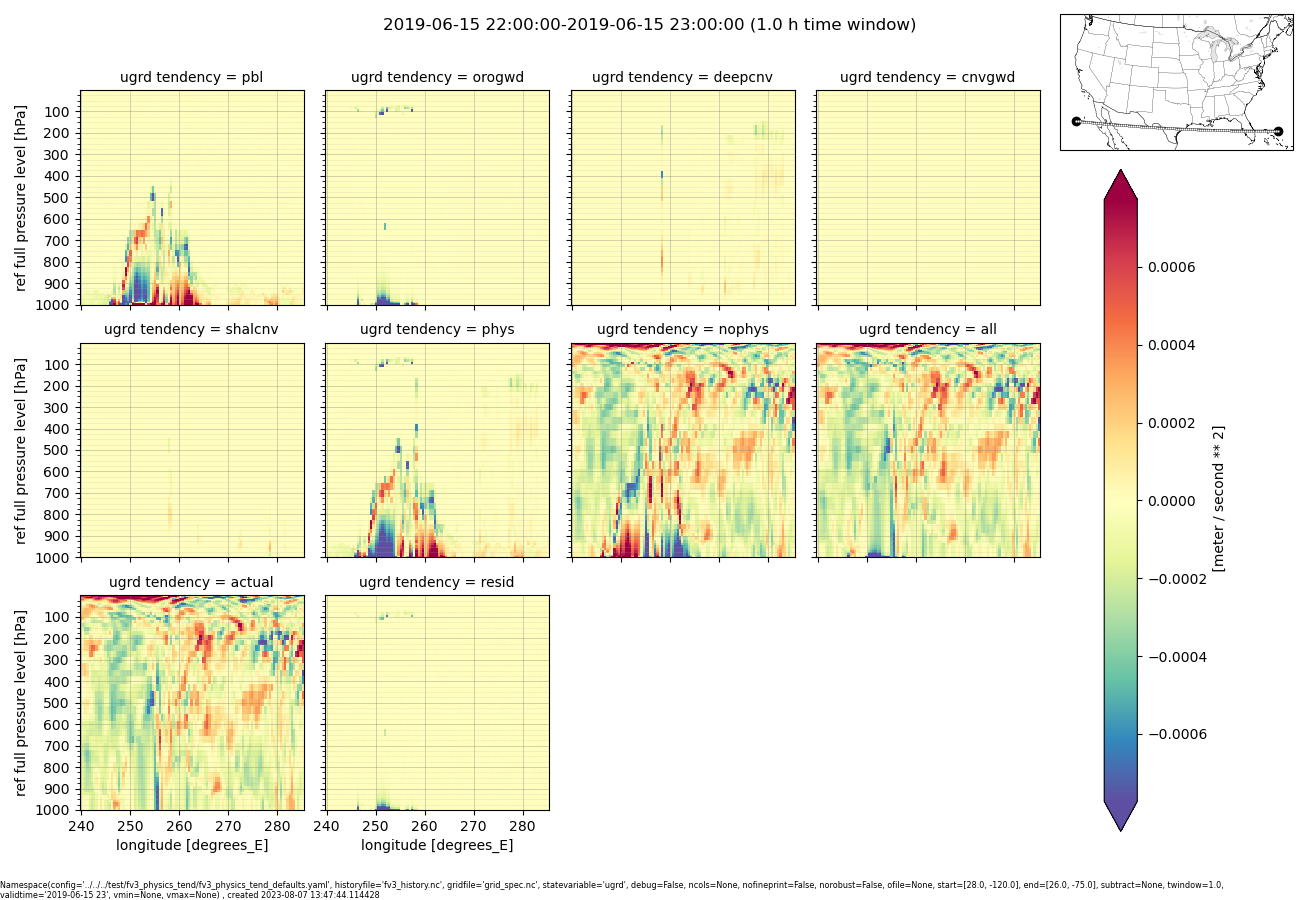
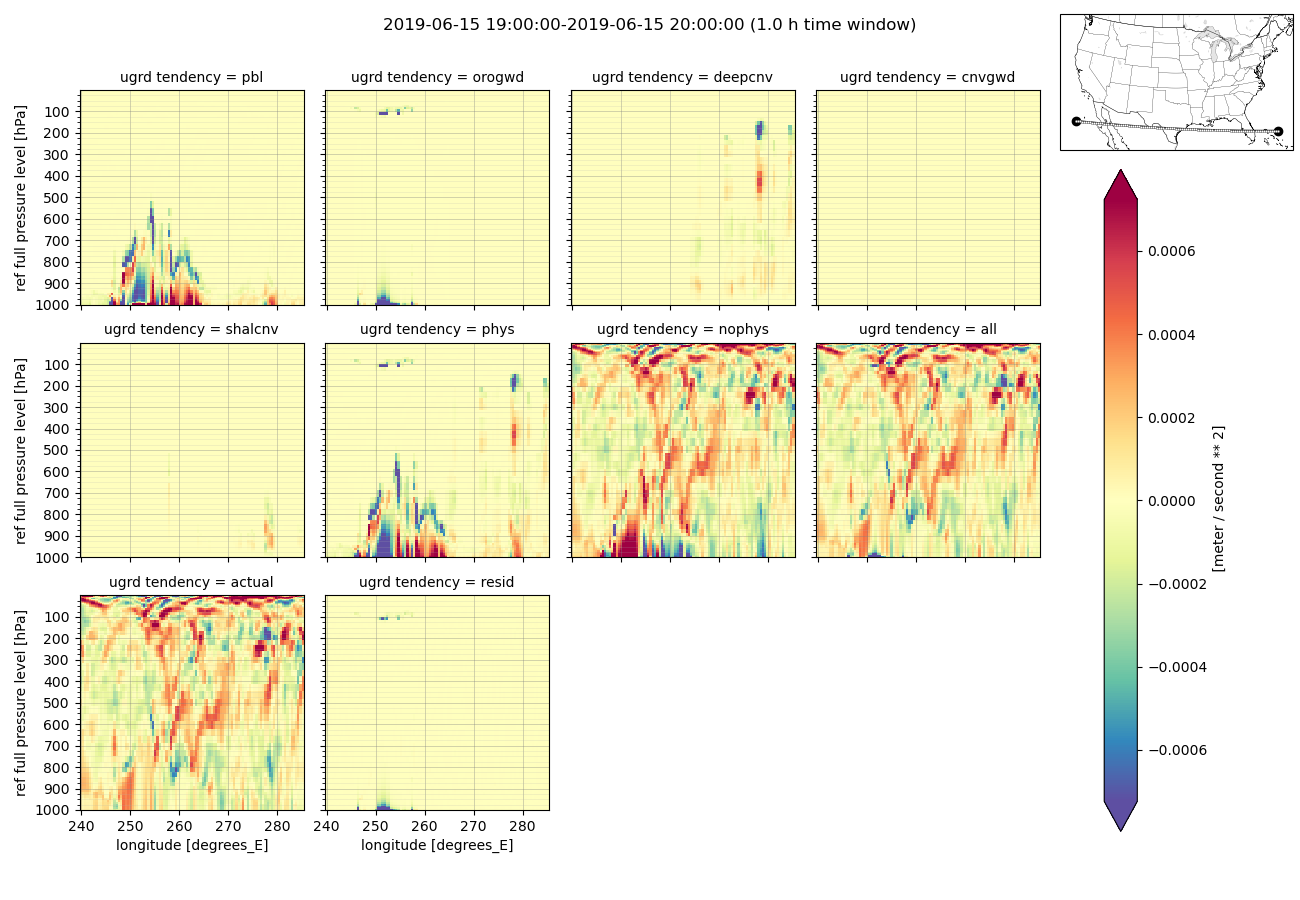
simplify paredown_history script
only pull out variables you need

Use fewer times and change cross section example to use new
time range.

extract ugrd in cross section code block, not tmp.

diff --git a/docs/Users_Guide/fv3_physics.rst b/docs/Users_Guide/fv3_physics.rst
@@ -323,12 +323,12 @@ Vertical Cross Section
       --vmax VMAX           color bar maximum (overrides robust=True) (default: None)
 
 Generate vertical cross section of u-wind tendencies from 28°N 120°W to 26°N 75°W over one-hour
-time window ending 23z June 15, 2019.
+time window ending 20z June 15, 2019.
 
 .. code-block:: bash
 
-    python cross_section_vert.py $CONFIG $WORKING_DIR/fv3_history.nc $WORKING_DIR/grid_spec.nc tmp \
-    -t 1 -v "2019-06-15 23" -s 28 -120 -e 26 -75 --nofineprint
+    python cross_section_vert.py $CONFIG $WORKING_DIR/fv3_history.nc $WORKING_DIR/grid_spec.nc ugrd \
+    -t 1 -v "2019-06-15 20" -s 28 -120 -e 26 -75 --nofineprint
 
 .. image:: figure/ugrd_28.0N-120.0E-26.0N-75.0E.png
 
